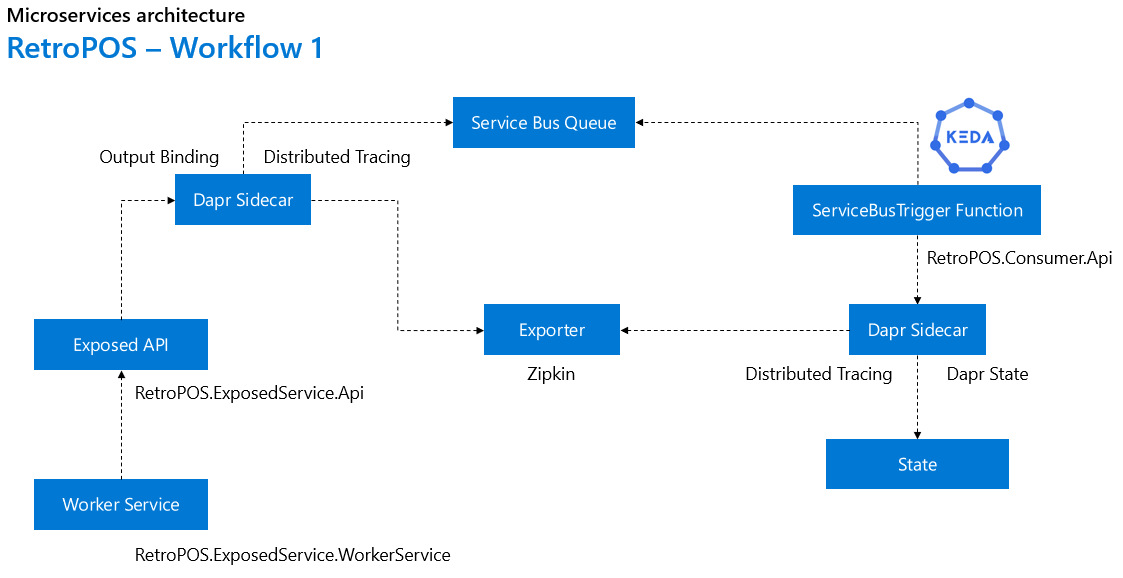
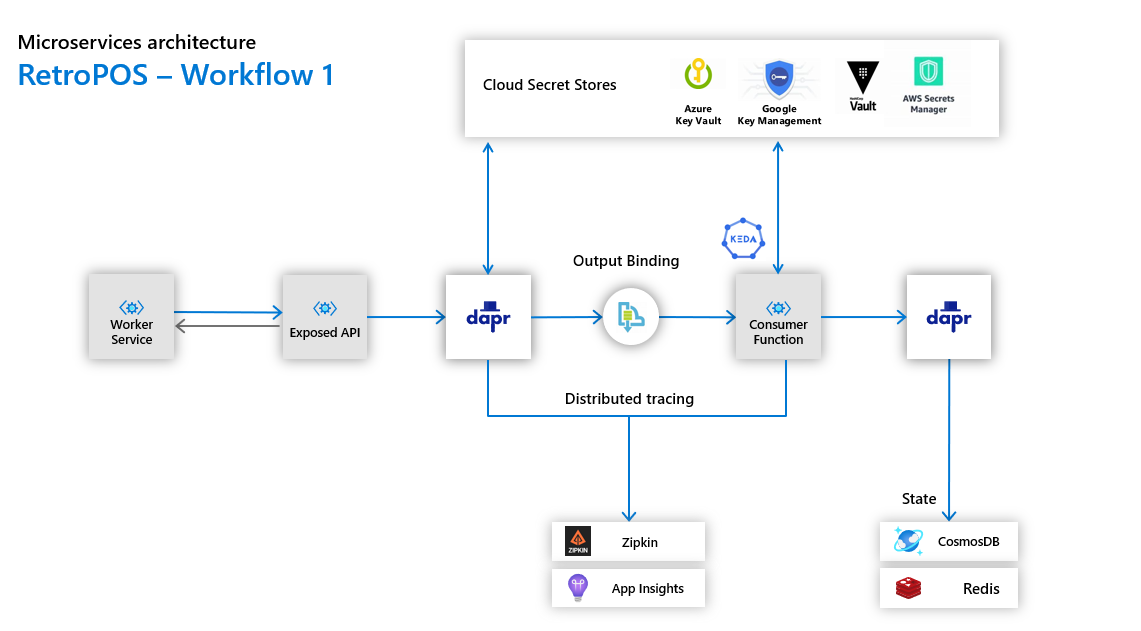
Renamed Consumer API project to Consumer Function

diff --git a/source/workflow-1/RetroPOS.Consumer.Function/Startup.cs b/source/workflow-1/RetroPOS.Consumer.Function/Startup.cs
@@ -1,13 +1,13 @@
 using Microsoft.Azure.Functions.Extensions.DependencyInjection;
 using Microsoft.Extensions.DependencyInjection;
 using Polly;
-using RetroPOS.Consumer.Api;
-using RetroPOS.Consumer.Api.Services;
+using RetroPOS.Consumer.Function;
+using RetroPOS.Consumer.Function.Services;
 using System;
 using System.Net.Http;
 
 [assembly: FunctionsStartup(typeof(Startup))]
-namespace RetroPOS.Consumer.Api
+namespace RetroPOS.Consumer.Function
 {
     public class Startup : FunctionsStartup
     {

diff --git a/source/workflow-1/RetroPOS.Consumer.Function/Activities/Consumer.cs b/source/workflow-1/RetroPOS.Consumer.Function/Activities/Consumer.cs
@@ -3,12 +3,12 @@ using Microsoft.Azure.ServiceBus.Core;
 using Microsoft.Azure.WebJobs;
 using Microsoft.Extensions.Logging;
 using Newtonsoft.Json;
-using RetroPOS.Consumer.Api.Models;
-using RetroPOS.Consumer.Api.Services;
+using RetroPOS.Consumer.Function.Models;
+using RetroPOS.Consumer.Function.Services;
 using System;
 using System.Threading.Tasks;
 
-namespace RetroPOS.Consumer.Api.Functions
+namespace RetroPOS.Consumer.Function.Activities
 {
     public class Consumer
     {

diff --git a/source/workflow-1/RetroPOS.Consumer.Function/Services/ConsumerService.cs b/source/workflow-1/RetroPOS.Consumer.Function/Services/ConsumerService.cs
@@ -4,7 +4,7 @@ using System.Net.Http;
 using System.Text;
 using System.Threading.Tasks;
 
-namespace RetroPOS.Consumer.Api.Services
+namespace RetroPOS.Consumer.Function.Services
 {
     public class ConsumerService : IConsumerService
     {

diff --git a/source/workflow-1/RetroPOS.Consumer.Function/Services/IConsumerService.cs b/source/workflow-1/RetroPOS.Consumer.Function/Services/IConsumerService.cs
@@ -1,7 +1,7 @@
 using Microsoft.Extensions.Logging;
 using System.Threading.Tasks;
 
-namespace RetroPOS.Consumer.Api.Services
+namespace RetroPOS.Consumer.Function.Services
 {
     public interface IConsumerService
     {

diff --git a/source/workflow-1/RetroPOS.Consumer.Function/Models/Product.cs b/source/workflow-1/RetroPOS.Consumer.Function/Models/Product.cs
@@ -1,6 +1,6 @@
 using Newtonsoft.Json;
 
-namespace RetroPOS.Consumer.Api.Models
+namespace RetroPOS.Consumer.Function.Models
 {
     public class Product
     {

diff --git a/source/workflow-1/RetroPOS.Consumer.Function/Settings.cs b/source/workflow-1/RetroPOS.Consumer.Function/Settings.cs
@@ -1,4 +1,4 @@
-namespace RetroPOS.Consumer.Api
+namespace RetroPOS.Consumer.Function
 {
     public interface Settings
     {

diff --git a/README-Workflow-1.md b/README-Workflow-1.md
@@ -27,7 +27,7 @@ Note: During the development of the project, I found some early adoption conside
 
 - source/workflow-1/RetroPOS.ExposedService.Api
 - source/workflow-1/RetroPOS.ExposedService.WorkerService
-- source/workflow-1/RetroPOS.Consumer.Api
+- source/workflow-1/RetroPOS.Consumer.Function
 
 ## Components required
 
@@ -50,12 +50,12 @@ Note: During the development of the project, I found some early adoption conside
 - [How to setup state stores](https://github.com/dapr/docs/tree/master/howto/setup-state-store)
 - [Diagnose with tracing](https://github.com/dapr/docs/tree/master/howto/diagnose-with-tracing)
 
-## Microservices port configuration for debugging
+## Microservices port configuration for local development environment 
 
-| services  | http | http-dapr | grpc-dapr | metrics-dapr | daprd command |
+| services  | http | http-dapr | grpc-dapr | dapr command |
 |---|---|---|---|---|---|
-| RetroPOS.ExposedService.Api | 5000 | 5100 | 5200 | 5300 | daprd -app-id exposed-api -components-path source\workflow-1\RetroPOS.Dapr.Components -app-port 5000 -dapr-http-port 5100 -dapr-grpc-port 5200 -metrics-port 5300 -log-level debug -config source\workflow-1\RetroPOS.Dapr.Components\dapr.tracing.yml |
-| RetroPOS.Consumer.Api | 6000 | 6100 | 6200 | 6300 | daprd -app-id consumer-api -components-path source\workflow-1\RetroPOS.Dapr.Components -app-port 6000 -dapr-http-port 6100 -dapr-grpc-port 6200 -metrics-port 6300 -log-level debug -config source\workflow-1\RetroPOS.Dapr.Components\dapr.tracing.yml |
+| RetroPOS.ExposedService.Api | 5000 | 5100 | 5200 | dapr run --app-id exposed-api --components-path source\workflow-1\RetroPOS.Dapr.Components --app-port 5000 --dapr-http-port 5100 --dapr-grpc-port 5200 --config source\workflow-1\RetroPOS.Dapr.Components\dapr.tracing.yml |
+| RetroPOS.Consumer.Function | 6000 | 6100 | 6200 | dapr run --app-id consumer-function --components-path source\workflow-1\RetroPOS.Dapr.Components --app-port 6000 --dapr-http-port 6100 --dapr-grpc-port 6200 --config source\workflow-1\RetroPOS.Dapr.Components\dapr.tracing.yml |
 
 ## Applications to Container Registry
 
@@ -73,10 +73,10 @@ Note: During the development of the project, I found some early adoption conside
     az acr build -f source/workflow-1/RetroPOS.ExposedService.Api/Dockerfile -t [name of registry].[registry host]/exposed-api:1.0.0 -r [name of registry] source/workflow-1/RetroPOS.ExposedService.Api/
     ```
 
-    Consumer API:
+    Consumer Function:
 
     ```
-    az acr build -f source/workflow-1/RetroPOS.Consumer.Api/Dockerfile -t [name of registry].[registry host]/consumer-api:1.0.0 -r [name of registry] source/workflow-1/RetroPOS.Consumer.Api/
+    az acr build -f source/workflow-1/RetroPOS.Consumer.Function/Dockerfile -t [name of registry].[registry host]/consumer-function:1.0.0 -r [name of registry] source/workflow-1/RetroPOS.Consumer.Function/
     ```
 
 ## Kubernetes resources
@@ -135,13 +135,13 @@ Note: During the development of the project, I found some early adoption conside
     | exposedAPI.deployment.image.repository | exposed service api repository, image and tag |
     | exposedAPI.autoscaling.minReplicas | exposed service api autoscaler pod min replicas |
     | exposedAPI.autoscaling.maxReplicas | exposed service api autoscaler pod max replicas |
-    | consumerAPI.deployment.replicas | consumer service api pod replicas |
-    | consumerAPI.deployment.image.repository | consumer api repository, image and tag |
-    | consumerAPI.deployment.env.azureWebJobsStorage | storage connection string secret on key vault |
-    | consumerAPI.deployment.env.serviceBusConnectionString | service bus connection string secret on key vault |
-    | consumerAPI.keda.scaledObject.minReplicaCount | consumer service api keda min pod replicas |
-    | consumerAPI.keda.scaledObject.maxReplicaCount | consumer service api keda max pod replicas |
-    | consumerAPI.keda.scaledObject.triggers.messageCount | consumer service api keda message count |
+    | consumerFunction.deployment.replicas | consumer function pod replicas |
+    | consumerFunction.deployment.image.repository | consumer function repository, image and tag |
+    | consumerFunction.deployment.env.azureWebJobsStorage | consumer function storage connection string secret on key vault |
+    | consumerFunction.deployment.env.serviceBusConnectionString | consumer function service bus connection string secret on key vault |
+    | consumerFunction.keda.scaledObject.minReplicaCount | consumer function keda min pod replicas |
+    | consumerFunction.keda.scaledObject.maxReplicaCount | consumer function keda max pod replicas |
+    | consumerFunction.keda.scaledObject.triggers.messageCount | consumer function keda message count |
 
     <b>Example of helm chart installation:</b>
 
@@ -160,13 +160,13 @@ Note: During the development of the project, I found some early adoption conside
                  --set exposedAPI.deployment.image.repository=retroposcr.azurecr.io/exposed-api:1.0.0 
                  --set exposedAPI.autoscaling.minReplicas=2 
                  --set exposedAPI.autoscaling.maxReplicas=20 
-                 --set consumerAPI.deployment.replicas=5 
-                 --set consumerAPI.deployment.image.repository=retroposcr.azurecr.io/consumer-api:1.0.0 
-                 --set consumerAPI.deployment.env.azureWebJobsStorage=storage-connectionstring-retroposstg 
-                 --set consumerAPI.deployment.env.serviceBusConnectionString=servicebus-connectionstring-retropossbns 
-                 --set consumerAPI.keda.scaledObject.minReplicaCount=5 
-                 --set consumerAPI.keda.scaledObject.maxReplicaCount=20 
-                 --set consumerAPI.keda.scaledObject.triggers.messageCount=2
+                 --set consumerFunction.deployment.replicas=5 
+                 --set consumerFunction.deployment.image.repository=retroposcr.azurecr.io/consumer-function:1.0.0 
+                 --set consumerFunction.deployment.env.azureWebJobsStorage=storage-connectionstring-retroposstg 
+                 --set consumerFunction.deployment.env.serviceBusConnectionString=servicebus-connectionstring-retropossbns 
+                 --set consumerFunction.keda.scaledObject.minReplicaCount=5 
+                 --set consumerFunction.keda.scaledObject.maxReplicaCount=20 
+                 --set consumerFunction.keda.scaledObject.triggers.messageCount=2
     ```
 
 ## Load test

diff --git a/README.md b/README.md
@@ -2,7 +2,7 @@
 
 ## Customer Story
 
-Dapr Retro Point of Sales (Backend Workflows) is an event-driven microservices based architecture for Contoso Ltd., which will enable scalability with a plugable design for the next generation of cloud point of sales.
+Dapr Retro Point of Sales (Backend Workflows) is an event-driven microservices based architecture for POS Distributed Systems Ltd., which will enable scalability with a plugable design for the next generation of cloud point of sales.
 
 After evaluating a variety of approaches and technologies, the engineering team has decided to use technologies like .NET Core, Containers, Functions, Dapr and KEDA to enable system scalability and functionality such as reliable state, bindings, triggers, distributed tracing, secret management, service to service invocation. 
 
